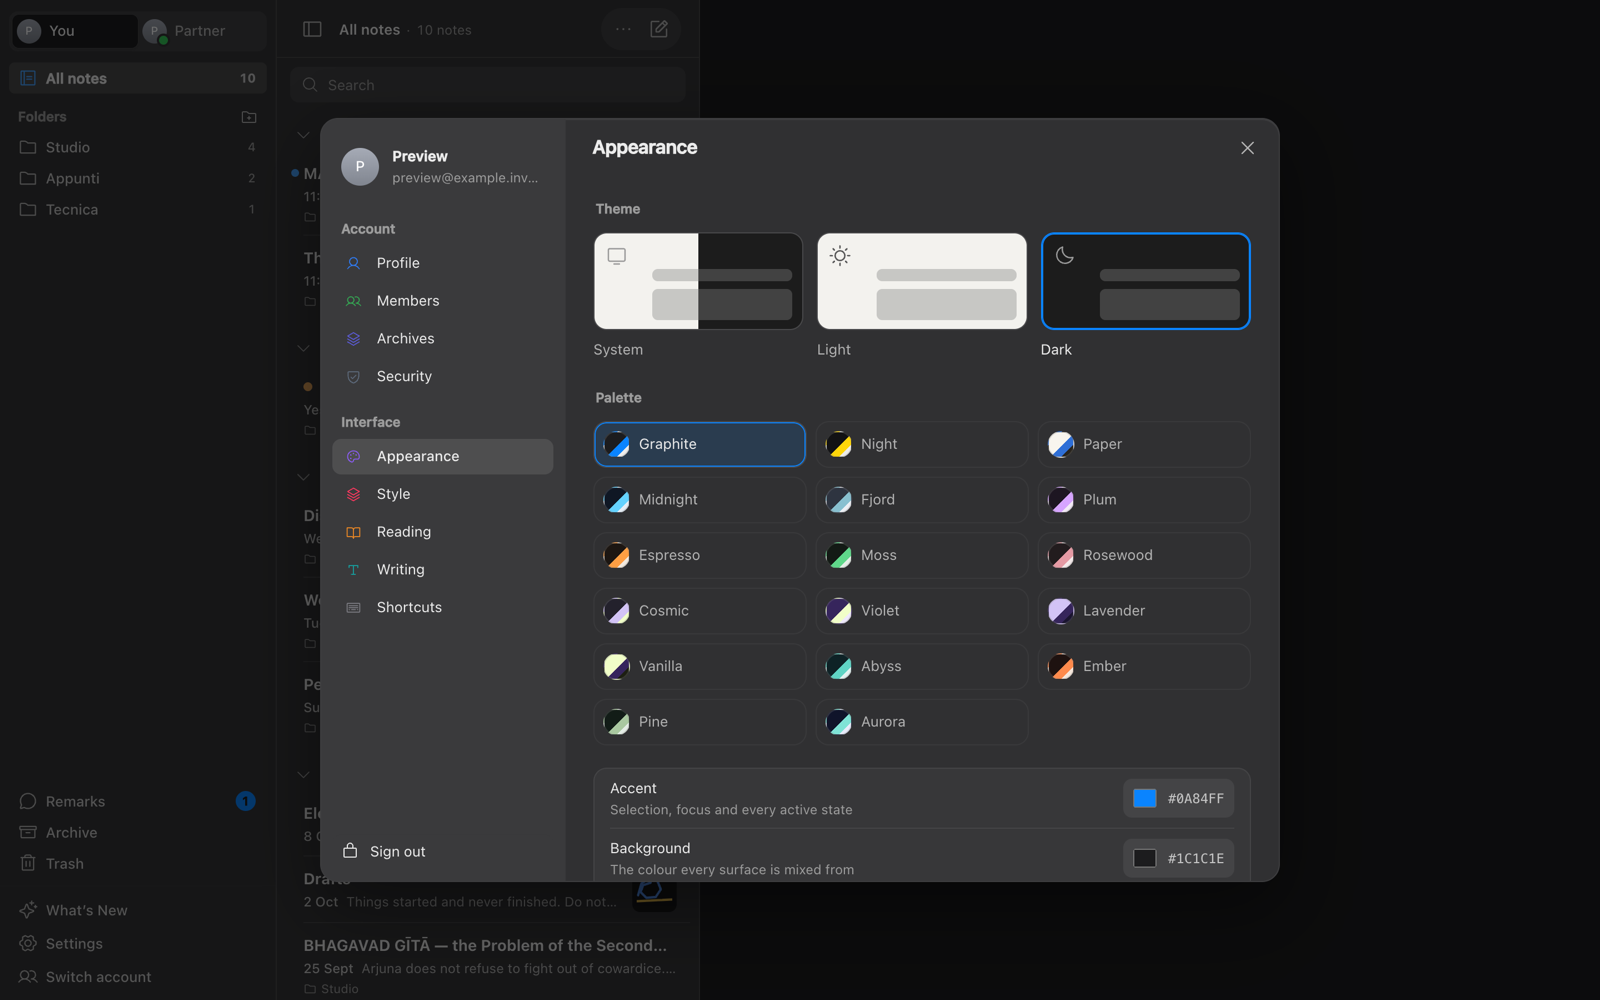
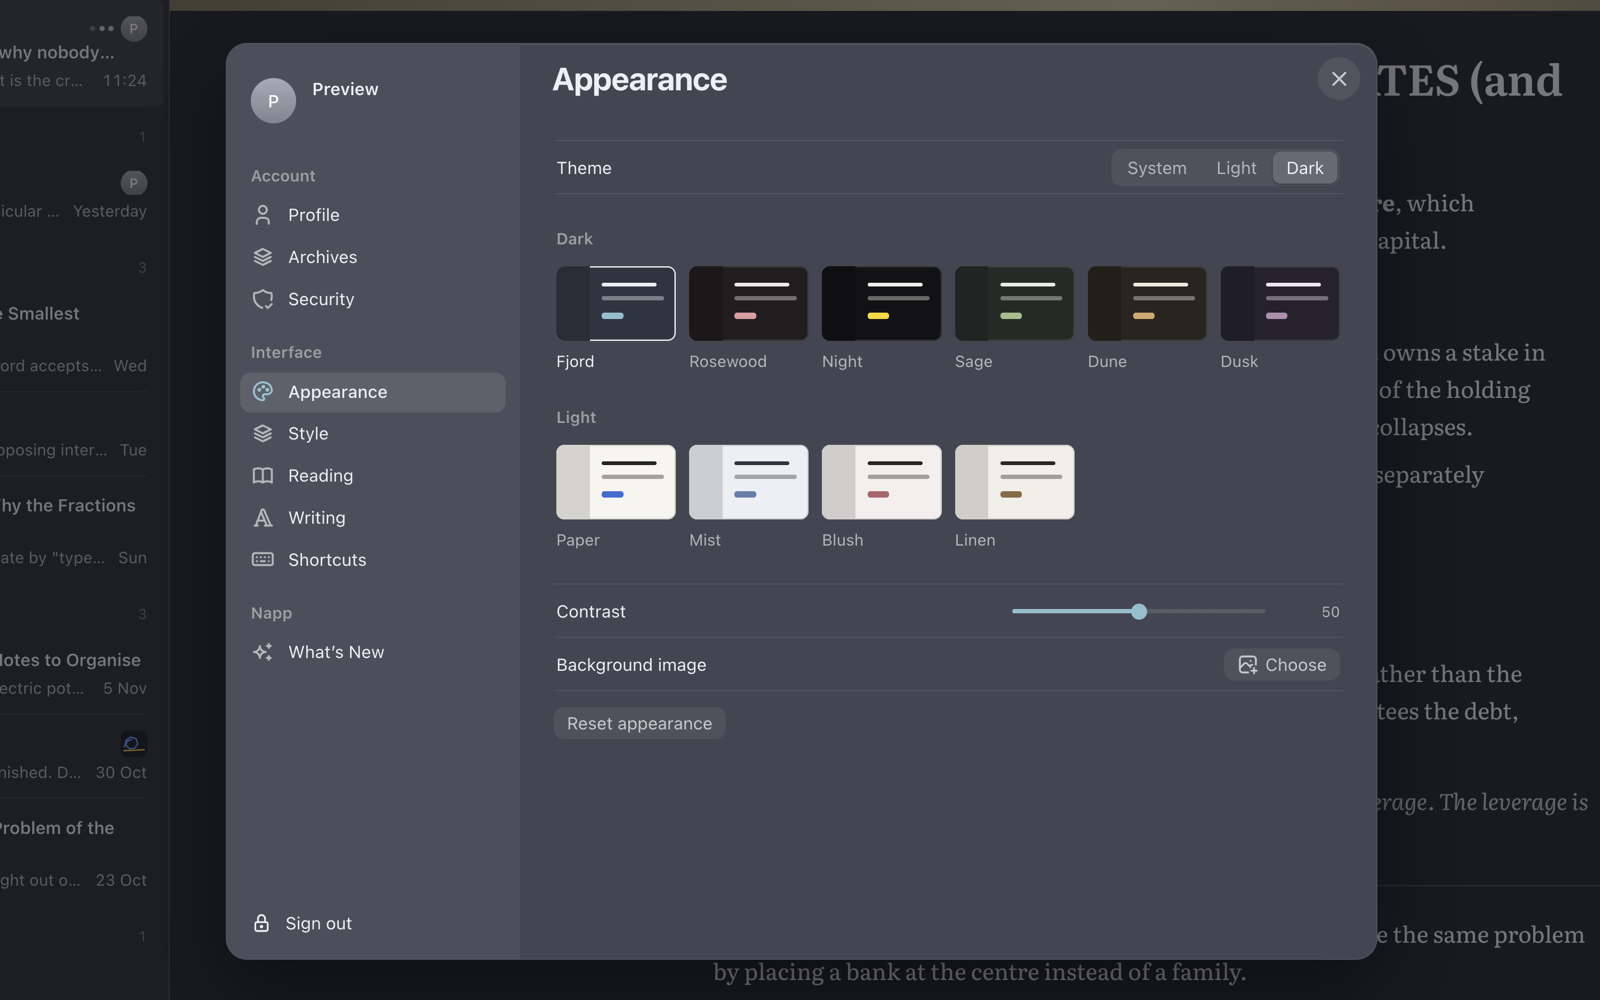
Release 0.9.53: a quieter, more even window
What's New and CHANGELOG for the design pass: the sidebar rail with a
presence dot, list rows, level bands on a framed Mac window, plain sheets,
comments as a column, ten palettes with Fjord first, What's New in Settings,
flat Settings rows and Tabler icons — with a screenshot for each visible
change. README screenshots replaced with current ones of the same subjects;
README, DESKTOP.md and the engineering invariants follow the code.

diff --git a/packages/core/src/lib/whatsNew.ts b/packages/core/src/lib/whatsNew.ts
@@ -45,6 +45,70 @@ export const DOWNLOADS = {
 
 export const RELEASES: Release[] = [
   {
+    version: "0.9.53",
+    date: "2026-11-13",
+    headline: "A quieter, more even window",
+    sections: [
+      {
+        heading: "Window",
+        items: [
+          {
+            title: "A rail down the sidebar",
+            text: "Your faces, Remarks, Archive and Recently Deleted sit in a narrow rail on the left, with Settings and your account at its foot; folders have the column beside it. A small dot on a face says that person is here now.",
+            image: "0.9.53-window.jpg",
+          },
+          {
+            title: "Lists that give the title room",
+            text: "A note's title runs to two lines, with its preview and time under it. The list's title says how many notes it holds, and the sidebar, the list and the note's toolbar share one 40px band.",
+          },
+          {
+            title: "Level on a Mac",
+            text: "In a window that isn't full screen, the traffic lights sit in the top band and the sidebar no longer steps down for them, so the three columns stay level.",
+          },
+        ],
+      },
+      {
+        heading: "Sheets",
+        items: [
+          {
+            title: "Plain information sheets",
+            text: "Holding a note, a folder or a person opens a calmer sheet: three numbers spaced evenly, then what happened grouped by day, each row with a face, the time and the words changed. The archive's sheet and a book's Trash are drawn the same way.",
+            image: "0.9.53-sheets.jpg",
+          },
+        ],
+      },
+      {
+        heading: "Comments",
+        items: [
+          {
+            title: "A column of the window",
+            text: "Comments open as a full-height column like the sidebar and the list, with each conversation as a plain row: a face, the name and the time.",
+            image: "0.9.53-comments.jpg",
+          },
+        ],
+      },
+      {
+        heading: "Settings",
+        items: [
+          {
+            title: "Ten palettes",
+            text: "Fjord, Rosewood, Night and Paper stay, joined by Sage, Dune, Dusk, Mist, Blush and Linen, each shown as a small window. Fjord is where Napp starts. A palette you chose that is no longer offered keeps working.",
+            image: "0.9.53-palettes.jpg",
+          },
+          {
+            title: "What’s New lives in Settings",
+            text: "This page is now a section of Settings, under Napp, with every release as a row you can open. The installers are at the top.",
+            image: "0.9.53-whats-new.jpg",
+          },
+          {
+            title: "Flat rows and new icons",
+            text: "Settings are plain rows with small controls at their right, and the interface draws its icons from one consistent set.",
+          },
+        ],
+      },
+    ],
+  },
+  {
     version: "0.9.52",
     date: "2026-11-13",
     headline: "Titles save through the live document",

diff --git a/DESKTOP.md b/DESKTOP.md
@@ -16,7 +16,7 @@ what is different about running it in a window.
 ## Get it
 
 **[Download the latest release](https://github.com/Jacopo792/napp/releases/latest)** —
-or straight from What's New inside the app.
+or straight from **Settings → What's New** inside the app.
 
 | Platform           | File                                                                                                          |
 | ------------------ | ------------------------------------------------------------------------------------------------------------- |
@@ -84,9 +84,9 @@ same shortcut the interface answers to. Windows instead has one compact title
 bar, coloured from the active Napp palette: there is no black File/Edit strip or
 package-name label above the app. Keyboard shortcuts work on both platforms.
 
-**A window you can move and name.** The traffic lights get a gutter of their own
-in the leftmost column, which follows when you collapse the folders (⌘\) and
-disappears in full screen. The header strips are the title bar, so you drag the
+**A window you can move and name.** The traffic lights sit in the top band,
+above the rail, so the sidebar, the list and the note keep their headers level;
+they disappear in full screen. The header strips are the title bar, so you drag the
 window by them and double-click them to zoom. The window is titled after the
 note you are reading, which is what Mission Control, the Window menu and ⌘Tab
 have to go on. It reopens where you left it, unless that was on a display you no

diff --git a/CHANGELOG.md b/CHANGELOG.md
@@ -3,6 +3,27 @@
 This file records user-visible changes and security-relevant architecture
 changes. The commit history remains the detailed engineering record.
 
+## 0.9.53 – 2026-11-13
+
+### Changed
+
+- The sidebar is a rail (people, Remarks, Archive, Recently Deleted, Settings and
+  account) beside the folder column; a presence dot marks a member who is here now.
+- Note list rows give the title two lines, with the preview and time under it; the
+  list's title carries the count. Sidebar, list and note toolbar share one 40px band.
+- In a framed Mac window the traffic lights sit centred in the top band and the
+  sidebar no longer steps down, so the three columns stay level.
+- Person, note, folder and archive sheets and a book's Trash use one flat layout:
+  evenly spaced numbers and History grouped by day.
+- Comments are a full-height column of the window with flat thread rows; the
+  floating margin mode is removed.
+- What's New is a page of Settings instead of a modal; after an update Settings
+  opens on it.
+- Palettes: Fjord, Rosewood, Night and Paper kept; Sage, Dune, Dusk, Mist, Blush and
+  Linen added; Fjord is the default. Retired palettes keep drawing for whoever
+  chose them; their background photographs are removed.
+- Settings in flat rows; interface icons come from Tabler.
+
 ## 0.9.52 – 2026-11-13
 
 ### Fixed

diff --git a/README.md b/README.md
@@ -93,11 +93,11 @@ change its status without opening the page.
 
 ## Conversations and versions
 
-![Comments in the margin](docs/comments-preview.png)
+![Comments beside the note](docs/comments-preview.png)
 
-Select a passage and leave a remark. When the window has room, the conversation
-stands in the margin beside the words it is about. Replies, reactions and resolved
-threads stay attached to that context.
+Select a passage and leave a remark. Comments open as a column of the window
+beside the note. Replies, reactions and resolved threads stay attached to the
+words they are about.
 
 ![Note history](docs/history-preview.png)
 
@@ -106,11 +106,12 @@ Restoring an earlier version keeps the present as a named version first.
 
 ## Your spaces, your settings
 
-![Archive switch](docs/spaces-preview.png)
+![Archives in Settings](docs/spaces-preview.png)
 
 One account can belong to several archives: personal notes, a study group, shared
 writing or a book. Each archive has its own members, folders and organisation.
-Invitations come from **Settings → Members** and expire after seven days.
+Invitations come from the archive's sheet (**Settings → Profile**, then its
+members) and expire after seven days.
 
 ![Appearance settings](docs/appearance-settings-preview.png)
 

diff --git a/docs/engineering-invariants.md b/docs/engineering-invariants.md
@@ -77,8 +77,6 @@ application model. Browser file pickers still require a real user gesture.
   backdrop filters and `blur(0)` instead of `none`.
 - Shared-grid tracks use `minmax(0, 1fr)` when content may overflow. Keep capped
   content centered rather than leaving an empty strip on one side.
-- Comment-margin cards live inside the document's scroller. Position updates
-  must not rerender the editor on every scroll; narrow panes retain the panel.
 - `platform().openFile` accepts a loader so the browser can synchronously claim
   a tab during the click before awaiting bytes. Do not move that await ahead
   of the shell's decision.
